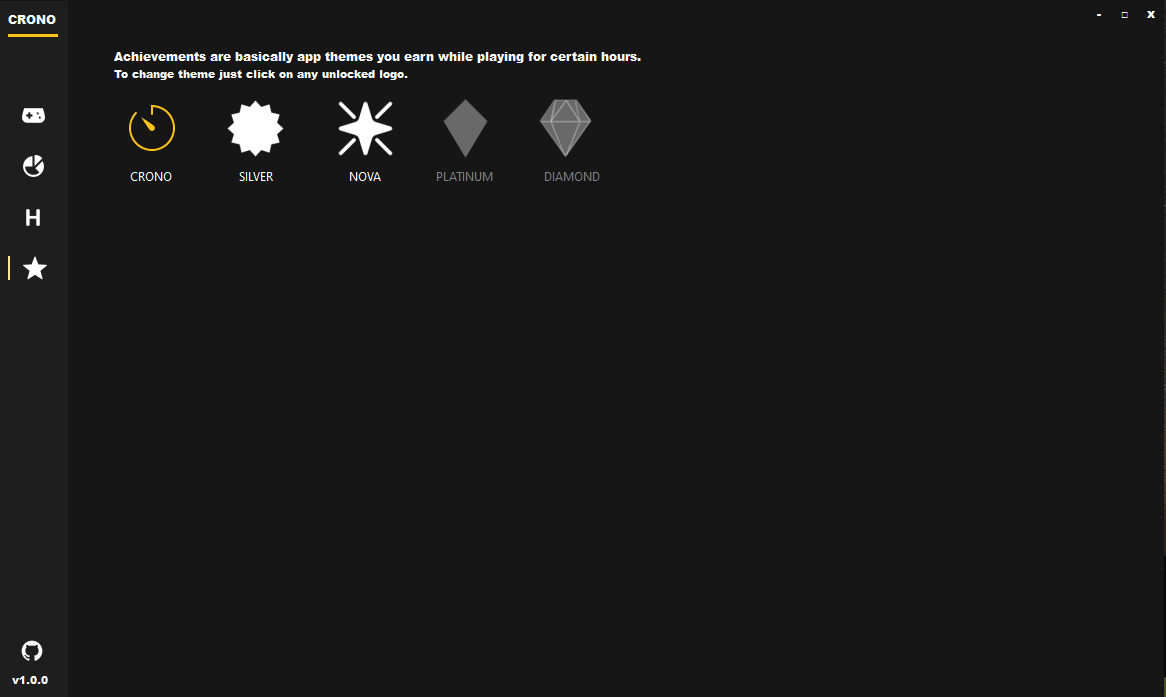
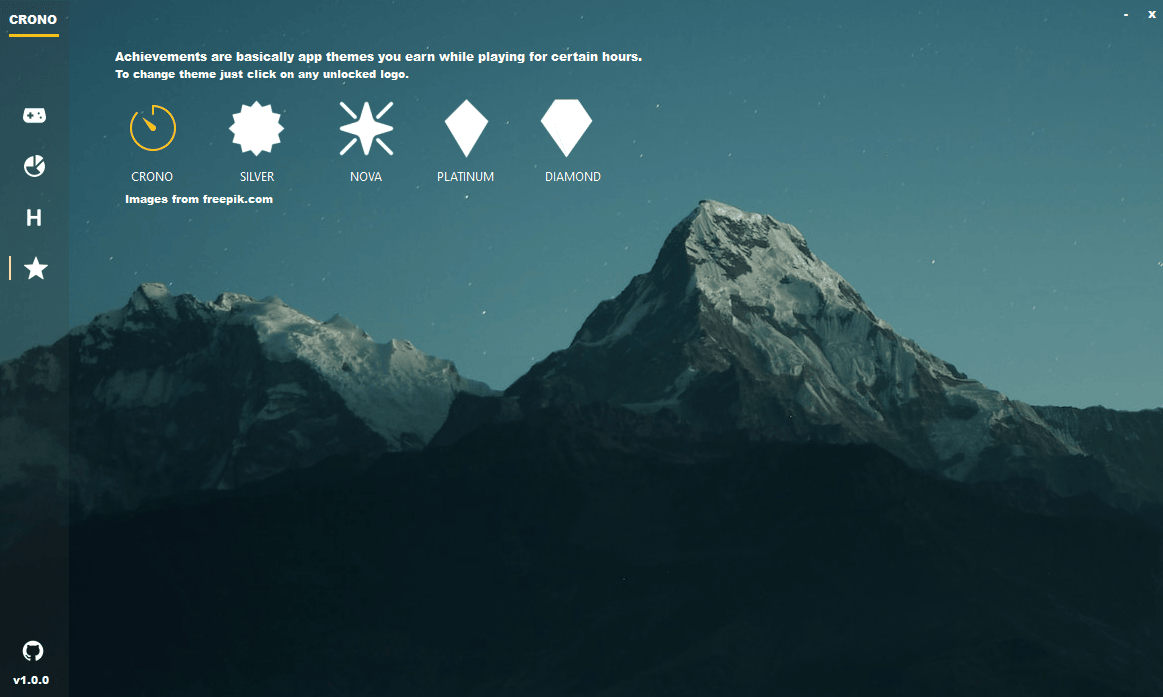
change theme colors for background images themes

diff --git a/mainwindow.cpp b/mainwindow.cpp
@@ -98,25 +98,8 @@ void MainWindow::actionsMenu(){
     QVector<DbManager::Achivements> achivementsData = db->getAchivements();
 
     QMenu *menu = new QMenu();
-    if(achivementsData[0].active){
-        menu->setStyleSheet("QMenu{background-color: rgb(22, 24, 22); color: white;}");
-    }
 
-    if(achivementsData[1].active){
-        menu->setStyleSheet("QMenu{background-color: rgb(40,42,40); color: white;}");
-    }
-
-    if(achivementsData[2].active){
-        menu->setStyleSheet("QMenu{background-color: rgb(0, 70, 129); color: white;}");
-    }
-
-    if(achivementsData[3].active){
-        menu->setStyleSheet("QMenu{background-color: rgb(34,60,64); color: white;}");
-    }
-
-    if(achivementsData[4].active){
-        menu->setStyleSheet("QMenu{background-color: rgb(23, 113, 107); color: white;}");
-    }
+    menu->setStyleSheet("QMenu{background-color: rgba(44, 44, 44, 100); color: white;}");
 
     QAction *actionEdit = new QAction("Edit", this);
     menu->addAction(actionEdit);
@@ -674,9 +657,9 @@ void MainWindow::checkRunningGame(int gameId, QString gameName)
                 statusBar()->showMessage(tr("Achivement unlock Silver."));
             }
         }
-        if(static_cast<double>(db->totalTimePlayed()) / (60 * 60) > 100){
-            bool silver = db->updateAchivement(2);
-            if(silver){
+        if(static_cast<double>(db->totalTimePlayed()) / (60 * 60) > 2){
+            bool nova = db->updateAchivement(2);
+            if(nova){
                 qDebug() << "Nova updated";
                 // Set the status bar style
                 statusBar()->setStyleSheet("color: #ffffff; background-color: #388E3C; font-size: 13px;");
@@ -694,9 +677,9 @@ void MainWindow::checkRunningGame(int gameId, QString gameName)
                 statusBar()->showMessage(tr("Achivement unlock Nova."));
             }
         }
-        if(static_cast<double>(db->totalTimePlayed()) / (60 * 60) > 500){
-            bool silver = db->updateAchivement(3);
-            if(silver){
+        if(static_cast<double>(db->totalTimePlayed()) / (60 * 60) > 3){
+            bool platinum = db->updateAchivement(3);
+            if(platinum){
                 qDebug() << "Platinum updated";
                 // Set the status bar style
                 statusBar()->setStyleSheet("color: #ffffff; background-color: #388E3C; font-size: 13px;");
@@ -714,9 +697,9 @@ void MainWindow::checkRunningGame(int gameId, QString gameName)
                 statusBar()->showMessage(tr("Achivement unlock Platinum."));
             }
         }
-        if(static_cast<double>(db->totalTimePlayed()) / (60 * 60) > 1000){
-            bool silver = db->updateAchivement(4);
-            if(silver){
+        if(static_cast<double>(db->totalTimePlayed()) / (60 * 60) > 4){
+            bool dimond = db->updateAchivement(4);
+            if(dimond){
                 qDebug() << "Diamond updated";
                 // Set the status bar style
                 statusBar()->setStyleSheet("color: #ffffff; background-color: #388E3C; font-size: 13px;");
@@ -1554,7 +1537,14 @@ void MainWindow::on_btnAchivements_clicked()
 
 void MainWindow::on_btnCrono_clicked()
 {
-    MainWindow::setStyleSheet("background-color: rgb(22, 22, 22)");
+    //MainWindow::setStyleSheet("background-color: rgb(22, 22, 22)");
+
+    MainWindow::setStyleSheet("QMainWindow {"
+                              "background-image: url(:/bg.jpg);"
+                              "background-repeat: no-repeat;"
+                              "background-position: center;"
+                              "background-size: 100% 100%;"
+                              "}");
 
     // Instance db conn
     DbManager *db = new DbManager(path);
@@ -1567,7 +1557,14 @@ void MainWindow::on_btnCrono_clicked()
 
 void MainWindow::on_btnSilver_clicked()
 {
-    MainWindow::setStyleSheet("background-color: rgb(40,40,40)");
+    //MainWindow::setStyleSheet("background-color: rgb(40,40,40)");
+
+    MainWindow::setStyleSheet("QMainWindow {"
+                              "background-image: url(:/bg1.png);"
+                              "background-repeat: no-repeat;"
+                              "background-position: center;"
+                              "background-size: 100% 100%;"
+                              "}");
 
     // Instance db conn
     DbManager *db = new DbManager(path);
@@ -1581,7 +1578,14 @@ void MainWindow::on_btnSilver_clicked()
 
 void MainWindow::on_btnNova_clicked()
 {
-    MainWindow::setStyleSheet("background-color: rgb(0, 68, 129)");
+    //MainWindow::setStyleSheet("background-color: rgb(0, 68, 129)");
+
+    MainWindow::setStyleSheet("QMainWindow {"
+                              "background-image: url(:/bg2.jpg);"
+                              "background-repeat: no-repeat;"
+                              "background-position: center;"
+                              "background-size: cover;"
+                              "}");
 
     // Instance db conn
     DbManager *db = new DbManager(path);
@@ -1595,7 +1599,14 @@ void MainWindow::on_btnNova_clicked()
 
 void MainWindow::on_btnPlatinum_clicked()
 {
-      MainWindow::setStyleSheet("background-color: rgb(34,58,64)");
+    //MainWindow::setStyleSheet("background-color: rgb(34,58,64)");
+
+    MainWindow::setStyleSheet("QMainWindow {"
+                              "background-image: url(:/bg3.jpg);"
+                              "background-repeat: no-repeat;"
+                              "background-position: center;"
+                              "background-size: 100% 100%;"
+                              "}");
 
     // Instance db conn
     DbManager *db = new DbManager(path);
@@ -1609,7 +1620,14 @@ void MainWindow::on_btnPlatinum_clicked()
 
 void MainWindow::on_btnDiamond_clicked()
 {
-    MainWindow::setStyleSheet("background-color: rgb(23, 111, 107)");
+    //MainWindow::setStyleSheet("background-color: rgb(23, 111, 107)");
+
+    MainWindow::setStyleSheet("QMainWindow {"
+                              "background-image: url(:/bg4.jpg);"
+                              "background-repeat: no-repeat;"
+                              "background-position: center;"
+                              "background-size: 100% 100%;"
+                              "}");
 
     // Instance db conn
     DbManager *db = new DbManager(path);
@@ -1627,23 +1645,54 @@ void MainWindow::checkActiveTheme(){
     QVector<DbManager::Achivements> achivementsData = db->getAchivements();
 
     if(achivementsData[0].active){
-        MainWindow::setStyleSheet("background-color: rgb(22, 22, 22)");
+       // MainWindow::setStyleSheet("background-color: rgb(22, 22, 22)");
+
+        MainWindow::setStyleSheet("QMainWindow {"
+                                  "background-image: url(:/bg.jpg);"
+                                  "background-repeat: no-repeat;"
+                                  "background-position: center;"
+                                  "background-size: cover;"
+                                  "}");
     }
 
     if(achivementsData[1].active){
-        MainWindow::setStyleSheet("background-color: rgb(40,40,40)");
+        //MainWindow::setStyleSheet("background-color: rgb(40,40,40)");
+        MainWindow::setStyleSheet("QMainWindow {"
+                                  "background-image: url(:/bg1.png);"
+                                  "background-repeat: no-repeat;"
+                                  "background-position: center;"
+                                  "background-size: 100% 100%;"
+                                  "}");
     }
 
     if(achivementsData[2].active){
-        MainWindow::setStyleSheet("background-color: rgb(0, 68, 129)");
+        //MainWindow::setStyleSheet("background-color: rgb(0, 68, 129)");
+        MainWindow::setStyleSheet("QMainWindow {"
+                                  "background-image: url(:/bg2.jpg);"
+                                  "background-repeat: no-repeat;"
+                                  "background-position: center;"
+                                  "background-size: 100% 100%;"
+                                  "}");
     }
 
     if(achivementsData[3].active){
-        MainWindow::setStyleSheet("background-color: rgb(34,58,64)");
+        //MainWindow::setStyleSheet("background-color: rgb(34,58,64)");
+        MainWindow::setStyleSheet("QMainWindow {"
+                                  "background-image: url(:/bg3.jpg);"
+                                  "background-repeat: no-repeat;"
+                                  "background-position: center;"
+                                  "background-size: 100% 100%;"
+                                  "}");
     }
 
     if(achivementsData[4].active){
-        MainWindow::setStyleSheet("background-color: rgb(23, 111, 107)");
+        //MainWindow::setStyleSheet("background-color: rgb(23, 111, 107)");
+        MainWindow::setStyleSheet("QMainWindow {"
+                                  "background-image: url(:/bg4.jpg);"
+                                  "background-repeat: no-repeat;"
+                                  "background-position: center;"
+                                  "background-size: 100% 100%;"
+                                  "}");
     }
 
 }

diff --git a/updategameform.cpp b/updategameform.cpp
@@ -14,8 +14,6 @@ UpdateGameForm::UpdateGameForm(int _gameId, QString _gameName, QString _gameExeL
 
     UpdateGameForm::setWindowFlags(Qt::Window | Qt::FramelessWindowHint);
 
-    UpdateGameForm::checkActiveTheme();
-
     ui->gameName->setText(_gameName);
     gameExePath = _gameExeLocation;
     gameId = _gameId;
@@ -106,31 +104,4 @@ void UpdateGameForm::on_closeBtn_clicked()
 {
     this->close();
     this->deleteLater();
-}
-
-void UpdateGameForm::checkActiveTheme(){
-    // Instance db conn
-    DbManager *db = new DbManager(path);
-
-    QVector<DbManager::Achivements> achivementsData = db->getAchivements();
-
-    if(achivementsData[0].active){
-        UpdateGameForm::setStyleSheet("background-color: rgb(33, 33, 33)");
-    }
-
-    if(achivementsData[1].active){
-        UpdateGameForm::setStyleSheet("background-color: rgb(40,45,40)");
-    }
-
-    if(achivementsData[2].active){
-        UpdateGameForm::setStyleSheet("background-color: rgb(0, 72, 129)");
-    }
-
-    if(achivementsData[3].active){
-        UpdateGameForm::setStyleSheet("background-color: rgb(34,61,64)");
-    }
-
-    if(achivementsData[4].active){
-        UpdateGameForm::setStyleSheet("background-color: rgb(23, 116, 107)");
-    }
 }

diff --git a/newgame.cpp b/newgame.cpp
@@ -11,8 +11,6 @@ NewGame::NewGame(QWidget *parent) : QDialog(parent),
 {
     ui->setupUi(this);
     NewGame::setWindowFlags(Qt::Window | Qt::FramelessWindowHint);
-
-    NewGame::checkActiveTheme();
 }
 
 QString gameExe;
@@ -90,31 +88,4 @@ void NewGame::on_closeBtn_clicked()
 {
     this->close();
     this->deleteLater();
-}
-
-void NewGame::checkActiveTheme(){
-    // Instance db conn
-    DbManager *db = new DbManager(path);
-
-    QVector<DbManager::Achivements> achivementsData = db->getAchivements();
-
-    if(achivementsData[0].active){
-        NewGame::setStyleSheet("background-color: rgb(33, 33, 33)");
-    }
-
-    if(achivementsData[1].active){
-        NewGame::setStyleSheet("background-color: rgb(40,45,40)");
-    }
-
-    if(achivementsData[2].active){
-        NewGame::setStyleSheet("background-color: rgb(0, 72, 129)");
-    }
-
-    if(achivementsData[3].active){
-        NewGame::setStyleSheet("background-color: rgb(34,61,64)");
-    }
-
-    if(achivementsData[4].active){
-        NewGame::setStyleSheet("background-color: rgb(23, 116, 107)");
-    }
 }

diff --git a/updategameform.h b/updategameform.h
@@ -25,7 +25,6 @@ private slots:
     void on_searchGameExeBtn_clicked();
 
     void on_closeBtn_clicked();
-    void checkActiveTheme();
 
 signals:
     void gameUpdated();

diff --git a/newgame.h b/newgame.h
@@ -26,7 +26,6 @@ private slots:
     void on_searchGameExeBtn_clicked();
 
     void on_closeBtn_clicked();
-    void checkActiveTheme();
 
 private:
     Ui::NewGame *ui;
